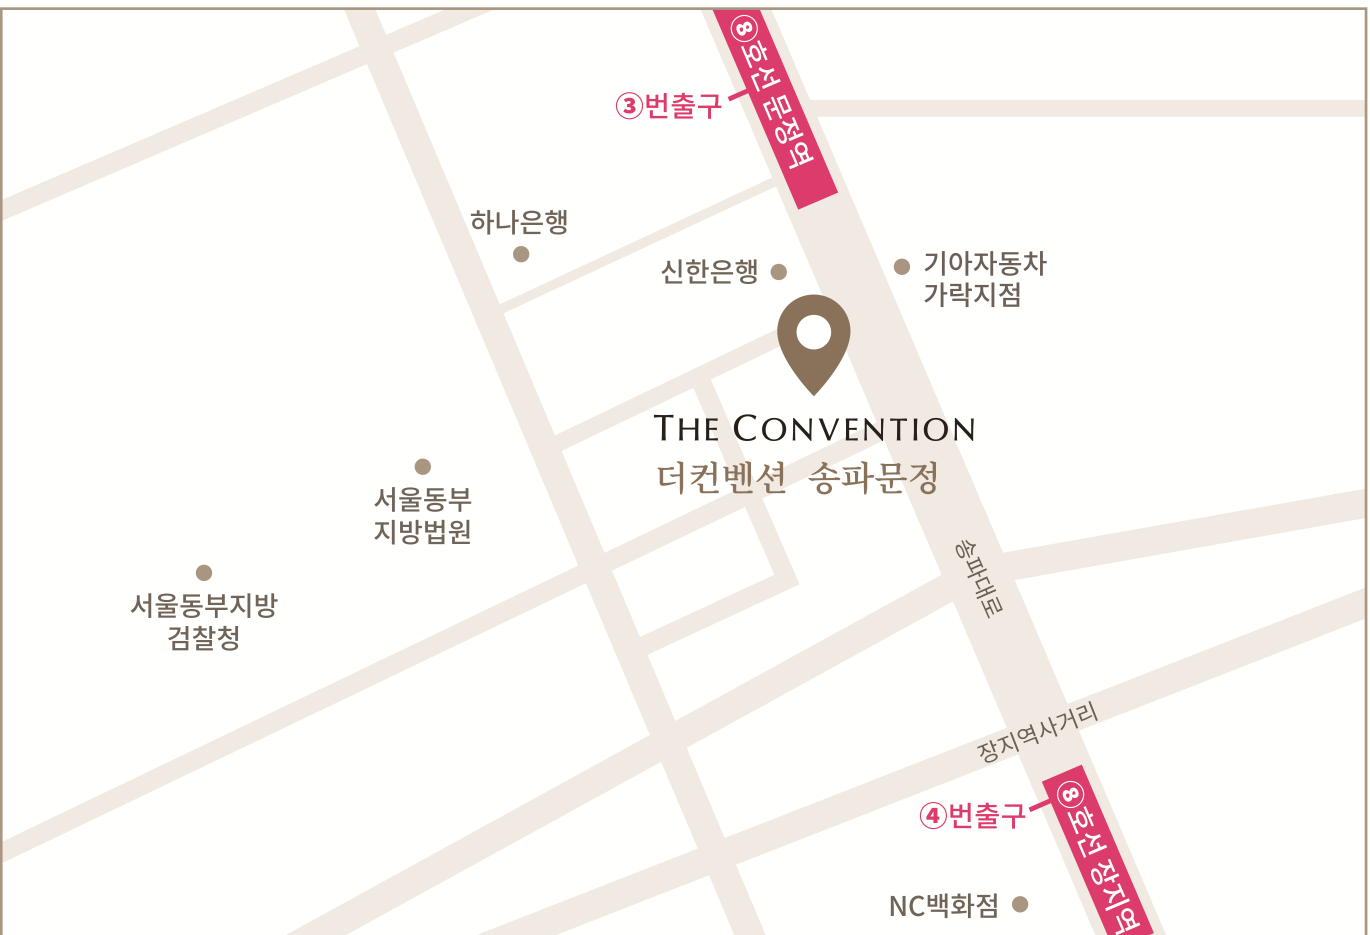
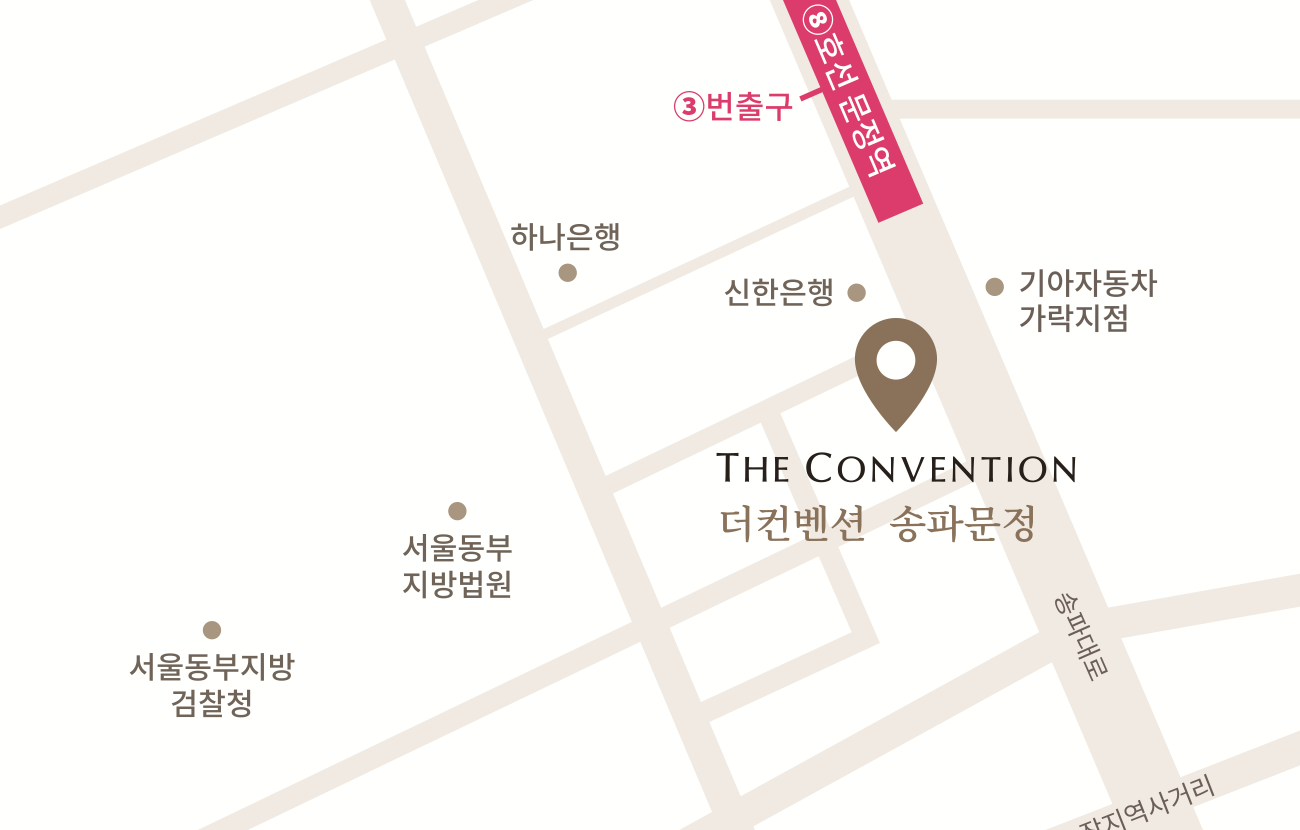
feat: 화이트 톤 리뉴얼, 약도 외곽선 완전 제거, 내비게이션 맞춤법 수정

Changed region(s): [[0.0, 0.0, 1.0, 1.0], [0.2769, 0.4819, 0.3385, 0.6024], [0.0923, 0.6024, 0.2154, 0.6928]]

diff --git a/src/components/Location.jsx b/src/components/Location.jsx
@@ -46,7 +46,7 @@ export function Location({ onCopied }) {
       <SectionTitle kicker="LOCATION" title="오시는 길" />
 
       {/* 공식 약도 이미지 (클릭 시 확대 모달) */}
-      <div className="relative overflow-hidden rounded-xl border border-cream-300 bg-white shadow-xs">
+      <div className="relative overflow-hidden rounded-xl border border-gray-100 bg-white shadow-xs">
         <button
           type="button"
           onClick={() => setIsMapModalOpen(true)}
@@ -60,7 +60,7 @@ export function Location({ onCopied }) {
             onContextMenu={(e) => e.preventDefault()}
             onDragStart={(e) => e.preventDefault()}
           />
-          <div className="flex items-center justify-center gap-1.5 border-t border-cream-200 bg-cream-50/80 py-2 text-center text-[11px] text-ink-muted">
+          <div className="flex items-center justify-center gap-1.5 border-t border-gray-100 bg-gray-50/90 py-2 text-center text-[11px] text-ink-muted">
             <svg
               className="h-3.5 w-3.5 fill-none stroke-current"
               viewBox="0 0 24 24"
@@ -110,8 +110,8 @@ export function Location({ onCopied }) {
         : null}
 
       {/* 안내 카드 */}
-      <div className="mt-5 rounded-xl border border-cream-300 bg-white/70 p-6 text-center shadow-xs backdrop-blur-xs">
-        <div className="mx-auto mb-3 flex h-10 w-10 items-center justify-center rounded-full bg-cream-200 text-rose-dark">
+      <div className="mt-5 rounded-xl border border-gray-100 bg-white p-6 text-center shadow-xs">
+        <div className="mx-auto mb-3 flex h-10 w-10 items-center justify-center rounded-full bg-gray-50 text-rose-dark">
           <svg
             className="h-5 w-5 fill-current"
             viewBox="0 0 24 24"
@@ -143,7 +143,7 @@ export function Location({ onCopied }) {
           <button
             type="button"
             onClick={copyAddress}
-            className="inline-flex items-center gap-1.5 rounded-full border border-cream-300 bg-cream-50 px-3.5 py-1 text-xs text-ink-muted transition hover:bg-cream-100 hover:text-ink"
+            className="inline-flex items-center gap-1.5 rounded-full border border-gray-200 bg-gray-50 px-3.5 py-1 text-xs text-ink-muted transition hover:bg-gray-100 hover:text-ink"
           >
             <svg
               className="h-3.5 w-3.5 fill-none stroke-current"
@@ -161,7 +161,7 @@ export function Location({ onCopied }) {
           {wedding.tel ? (
             <a
               href={`tel:${wedding.tel}`}
-              className="inline-flex items-center gap-1.5 rounded-full border border-cream-300 bg-cream-50 px-3.5 py-1 text-xs text-ink-muted transition hover:bg-cream-100 hover:text-ink"
+              className="inline-flex items-center gap-1.5 rounded-full border border-gray-200 bg-gray-50 px-3.5 py-1 text-xs text-ink-muted transition hover:bg-gray-100 hover:text-ink"
             >
               <svg
                 className="h-3.5 w-3.5 fill-current"
@@ -198,11 +198,11 @@ export function Location({ onCopied }) {
 
       {/* 대중교통 및 주차 상세 안내 */}
       {wedding.transport ? (
-        <div className="mt-8 space-y-4 rounded-xl border border-cream-200 bg-cream-50/80 p-5 text-left text-xs leading-relaxed text-ink-muted">
+        <div className="mt-8 space-y-4 rounded-xl border border-gray-100 bg-gray-50/70 p-5 text-left text-xs leading-relaxed text-ink-muted">
           {/* 지하철 */}
           {wedding.transport.subway ? (
             <div className="flex items-start gap-3">
-              <span className="shrink-0 rounded bg-cream-200 px-2 py-0.5 font-medium text-[11px] text-ink">
+              <span className="shrink-0 rounded bg-gray-200/80 px-2 py-0.5 font-medium text-[11px] text-ink">
                 지하철
               </span>
               <div className="text-ink-muted">{wedding.transport.subway}</div>
@@ -211,8 +211,8 @@ export function Location({ onCopied }) {
 
           {/* 버스 */}
           {wedding.transport.bus ? (
-            <div className="flex items-start gap-3 border-t border-cream-200/70 pt-3">
-              <span className="shrink-0 rounded bg-cream-200 px-2 py-0.5 font-medium text-[11px] text-ink">
+            <div className="flex items-start gap-3 border-t border-gray-200/60 pt-3">
+              <span className="shrink-0 rounded bg-gray-200/80 px-2 py-0.5 font-medium text-[11px] text-ink">
                 버스
               </span>
               <div className="space-y-1 text-[11.5px] text-ink-muted">
@@ -256,8 +256,8 @@ export function Location({ onCopied }) {
 
           {/* 자가용 및 주차 */}
           {wedding.transport.car || wedding.transport.parking ? (
-            <div className="flex items-start gap-3 border-t border-cream-200/70 pt-3">
-              <span className="shrink-0 rounded bg-cream-200 px-2 py-0.5 font-medium text-[11px] text-ink">
+            <div className="flex items-start gap-3 border-t border-gray-200/60 pt-3">
+              <span className="shrink-0 rounded bg-gray-200/80 px-2 py-0.5 font-medium text-[11px] text-ink">
                 자가용
               </span>
               <div className="space-y-1 text-ink-muted">

diff --git a/src/components/Account.jsx b/src/components/Account.jsx
@@ -26,7 +26,7 @@ function AccountRow({ account, onCopied }) {
   }
 
   return (
-    <div className="flex items-center justify-between gap-3 border-t border-cream-200 py-3 first:border-t-0">
+    <div className="flex items-center justify-between gap-3 border-t border-gray-100 py-3 first:border-t-0">
       <div>
         <p className="text-sm">
           {account.bank} {account.number}
@@ -36,7 +36,7 @@ function AccountRow({ account, onCopied }) {
       <button
         type="button"
         onClick={copy}
-        className="shrink-0 rounded-full border border-rose px-3 py-1 text-xs text-rose-dark"
+        className="shrink-0 rounded-full border border-gray-200 bg-gray-50 px-3 py-1 text-xs text-ink-muted transition hover:bg-gray-100"
       >
         복사
       </button>
@@ -48,7 +48,7 @@ function Accordion({ title, accounts, onCopied }) {
   const [open, setOpen] = useState(false)
 
   return (
-    <div className="overflow-hidden rounded-md border border-cream-300 bg-white/60">
+    <div className="overflow-hidden rounded-xl border border-gray-100 bg-white shadow-xs">
       <button
         type="button"
         className="flex w-full items-center justify-between px-4 py-3.5 text-sm"
@@ -59,7 +59,7 @@ function Accordion({ title, accounts, onCopied }) {
         <span className="text-ink-soft">{open ? '−' : '+'}</span>
       </button>
       {open ? (
-        <div className="px-4 pb-3">
+        <div className="border-t border-gray-100 bg-gray-50/50 px-4 pb-3">
           {accounts.map((account) => (
             <AccountRow
               key={`${account.bank}-${account.number}`}

diff --git a/src/components/Cover.jsx b/src/components/Cover.jsx
@@ -3,7 +3,7 @@ import { useCountdown } from '../hooks/useCountdown'
 
 function TimeBox({ value, label }) {
   return (
-    <div className="flex min-w-[58px] flex-col items-center rounded-lg bg-white/70 px-2 py-3 shadow-sm">
+    <div className="flex min-w-[58px] flex-col items-center rounded-lg border border-gray-100 bg-white/90 px-2 py-3 shadow-xs backdrop-blur-xs">
       <span className="font-serif text-2xl tabular-nums text-ink">
         {String(value).padStart(2, '0')}
       </span>
@@ -22,12 +22,12 @@ export function Cover() {
   return (
     <section className="relative flex min-h-[100svh] flex-col items-center justify-center px-6 py-16 text-center">
       <div
-        className="pointer-events-none absolute inset-0 bg-cover bg-center opacity-35"
+        className="pointer-events-none absolute inset-0 select-none bg-cover bg-center opacity-40"
         style={{
           backgroundImage: `url(${wedding.coverImage || '/photos/photo_10.jpg'})`,
         }}
       />
-      <div className="pointer-events-none absolute inset-0 bg-gradient-to-b from-cream-100/80 via-cream-100/60 to-cream-100" />
+      <div className="pointer-events-none absolute inset-0 bg-gradient-to-b from-white/70 via-white/50 to-white" />
 
       <div className="relative">
         <p className="mb-8 text-[11px] tracking-[0.4em] text-rose-dark">

diff --git a/tailwind.config.js b/tailwind.config.js
@@ -5,19 +5,19 @@ export default {
     extend: {
       colors: {
         cream: {
-          50: '#fdfbf7',
-          100: '#f7f1e8',
-          200: '#efe4d4',
-          300: '#e4d3bb',
+          50: '#ffffff',
+          100: '#ffffff',
+          200: '#f8f9fa',
+          300: '#e9ecef',
         },
         ink: {
-          DEFAULT: '#4a4036',
-          muted: '#7a6e63',
-          soft: '#9a8d82',
+          DEFAULT: '#222222',
+          muted: '#555555',
+          soft: '#888888',
         },
         rose: {
-          DEFAULT: '#c4a484',
-          dark: '#a68568',
+          DEFAULT: '#b49b82',
+          dark: '#8c735a',
         },
       },
       fontFamily: {

diff --git a/src/data/wedding.js b/src/data/wedding.js
@@ -22,7 +22,7 @@ export const wedding = {
       notice: '문정법조타운·건영아파트 정류소에서 하차 후 도보이동 (일반버스)',
       policy: '대중교통 정책에 따라 변동될 수 있습니다.',
     },
-    car: '네비게이션에 송파구 송파대로 155 검색',
+    car: '내비게이션에 송파구 송파대로 155 검색',
     parking: 'NH송파농협 신청사 지하 주차장 이용 (하객 2시간 무료)',
   },
   greeting: `서로 다른 길을 걷던 두 사람이

diff --git a/src/App.jsx b/src/App.jsx
@@ -13,7 +13,7 @@ function App() {
 
   return (
     <div className="min-h-svh bg-cream-200">
-      <main className="mx-auto min-h-svh max-w-md bg-cream-100 shadow-[0_0_40px_rgba(74,64,54,0.08)]">
+      <main className="mx-auto min-h-svh max-w-md bg-cream-100 shadow-[0_4px_30px_rgba(0,0,0,0.05)]">
         <Cover />
         <div className="mx-auto h-px w-12 bg-cream-300" />
         <Greeting />

diff --git a/src/index.css b/src/index.css
@@ -8,7 +8,7 @@
   }
 
   body {
-    @apply m-0 bg-cream-100 font-sans text-ink antialiased;
+    @apply m-0 bg-cream-200 font-sans text-ink antialiased;
   }
 
   #root {

diff --git a/BRAINSTORMING.md b/BRAINSTORMING.md
@@ -1,42 +1,28 @@
-# 사용자 피드백 반영 브레인스토밍 (BRAINSTORMING)
+# 화이트 톤 리뉴얼 및 피드백 브레인스토밍 (BRAINSTORMING)
 
-## 1. 피드백 4가지 분석 및 해결 방안
+## 1. 피드백 3가지 분석
 
-### ① 갤러리 사진 무단 저장 방지 (PC 우클릭 및 모바일 롱탭 방지)
-- **현상**: 스마트폰에서 사진을 길게 누르면 "이미지 저장 / 다운로드" 팝업이 뜨고, PC에서는 우클릭으로 이미지를 저장할 수 있음.
+### ① '네비게이션' ➔ '내비게이션' 표준어 수정
+- **현상**: `src/data/wedding.js`, `Location.jsx` 등에서 '네비게이션'으로 표기되어 있음.
+- **수정**: 국립국어원 표준 맞춤법 표기인 **'내비게이션'** 으로 일괄 변경.
+
+### ② 약도 이미지 외곽 검은 테두리 제거
+- **현상**: PDF에서 추출한 약도 사각형의 검은 외곽 테두리 선(1~2px)이 모바일 카드 안에서 그대로 보여 답답한 느낌을 줌.
 - **해결 방안**:
-  1. CSS:
-     - `-webkit-touch-callout: none;` (iOS Safari 길게 누르기 메뉴 완전 차단)
-     - `user-select: none; -webkit-user-select: none;` (텍스트/이미지 선택 방지)
-     - `pointer-events: none;` (이미지 자체에 직접 터치 이벤트가 닿지 않도록 하고 상위 클릭 버튼만 동작하게 처리)
-  2. JavaScript 이벤트:
-     - `onContextMenu={(e) => e.preventDefault()}` (마우스 우클릭 및 롱탭 컨텍스트 메뉴 무력화)
-     - `onDragStart={(e) => e.preventDefault()}` (이미지 드래그 앤 드롭 방지)
-  3. 적용 범위: 갤러리 썸네일 그리드, 확대 모달, 메인 커버 등 모든 사진.
+  - 원본 고해상도 이미지에서 사각 테두리 선 안쪽(상하좌우 각 12px씩 inset)으로 정밀 크롭.
+  - 검은 테두리가 완전히 사라지고 순수 지도 그래픽만 화이트 배경 위에 자연스럽게 얹히도록 처리.
 
-### ② 방명록 섹션 제거 및 DB 제거 확인
-- **질문**: "방명록 없애줘 (이거 없으면 DB 없어도 되는 거지?)"
-- **답변**: **네, 완전히 맞습니다!**
-  - 방명록이 빠지면 청첩장은 100% 정적 사이트(Static HTML/JS/CSS)가 됩니다.
-  - 외부 Supabase DB 의존성이 완전히 사라져 DB 연결 실패, 트래픽 한도, 데이터 유실, 비밀번호 노출 등의 걱정이 **0%**가 되며, Vercel CDN에서 전 세계 초고속으로 안정 작동합니다.
-- **조치**: `App.jsx`에서 `<Guestbook />` 제거 및 구분선 정리.
-
-### ③ 공식 청첩장 약도 PDF 반영
-- **입력 파일**: `/Users/bottlewook/Downloads/더컨벤션_송파_청첩장_약도.pdf`
-- **반영 내용**:
-  1. **약도 이미지**:
-     - 더컨벤션 공식 약도 그래픽(문정역 3번 출구 도보 동선, 신한/하나은행, 기아자동차, 서울동부지방법원/검찰청, 장지역 4번 출구, NC백화점)을 고해상도로 추출하여 감성적인 둥근 카드 형태로 배치.
-     - 클릭 시 확대해서 선명하게 볼 수 있는 기능 추가.
-  2. **교통편 상세 업데이트 (`src/data/wedding.js`)**:
-     - **지하철**: 8호선 문정역 3번 출구 도보 5분
-     - **버스**:
-       - 일반버스: `30, 31, 100, 331`
-       - 간선버스: `302, 303, 320, 333, 350, 360, 343, 345, 422, N13, N37`
-       - 지선버스: `3322, 3420`
-       - 직행버스: `1009, 1112, 1117, 1650, 500-1, 500-1A, 3302, 4305, G2100, G6009`
-       - 하차 안내: 문정법조타운·건영아파트 정류소에서 하차 후 도보 이동
-     - **자가용**: 네비게이션에 "송파구 송파대로 155" 검색
-     - **예식장 연락처**: 02-6418-5000 (전화 연결 기능)
-
-### ④ 티맵 버튼 삭제
-- **조치**: 길찾기 버튼 영역에서 [티맵]을 삭제하고, **[네이버지도]** 와 **[카카오맵]** 2개 버튼으로 시원하게 2열 그리드로 정렬.
+### ③ 전체 톤을 '좀 더 화이트 톤'으로 리뉴얼 (White Wedding Theme)
+- **현상**: 현재 테마가 웜 크림/베이지 톤(`bg-cream-200`, `bg-cream-100`, `#f7f1e8`, 브라운 잉크 `#4a4036`)으로 되어 있어 약간 노란빛/갈색빛이 도는 상태.
+- **해결 방안 (맑고 화사한 화이트 톤으로 개편)**:
+  1. **배경색 개편**:
+     - 바깥 배경(body/wrapper): 밝고 깨끗한 오프화이트 (`#f8fafc` 또는 `#f9fafb`)
+     - 메인 모바일 캔버스: 순백의 **퓨어 화이트 (`#ffffff`)**
+     - 섹션 구분선: 칙칙하지 않은 미세한 소프트 라인 (`#f1f5f9` or `#e2e8f0`)
+     - 안내 박스/카드: 화이트 배경에 은은한 림 보더(`border-slate-100`)와 부드러운 그림자
+  2. **텍스트 컬러 개편**:
+     - 브라운톤 `#4a4036` ➔ 세련되고 가독성 높은 모던 차콜 블랙 (`#1e293b` / `#334155`)
+     - 서브 텍스트: 차분한 쿨그레이 (`#64748b` / `#94a3b8`)
+  3. **메인 커버 (`Cover.jsx`)**:
+     - 배경 그라디언트를 노란빛 크림 오버레이에서 **맑은 화이트 오버레이 (`from-white/80 via-white/60 to-white`)** 로 변경하여, 신랑/신부님의 사진이 훨씬 화사하고 눈부시게 드러나도록 연출.
+     - D-Day 카운트다운 박스도 깔끔한 퓨어 화이트 카드 + 미세 그림자로 정돈.

diff --git a/IMPLEMENTATION_PLAN.md b/IMPLEMENTATION_PLAN.md
@@ -1,47 +1,40 @@
-# 피드백 반영 구현 계획서 (IMPLEMENTATION_PLAN)
+# 화이트 톤 리뉴얼 및 피드백 구현 계획서 (IMPLEMENTATION_PLAN)
 
 ## 1. 구현 목표
-사용자 피드백 4가지를 빠짐없이 반영하여, 사진 복사 방지 적용, 방명록 제거(DB 무의존 정적 사이트화), 공식 PDF 약도 및 대중교통 정보 100% 일치 반영, 티맵 삭제(네이버/카카오 2버튼 체제)를 완성하고 Vercel에 즉시 배포합니다.
+사용자의 요청에 따라 '네비게이션' 표기를 '내비게이션'으로 수정하고, 약도 외곽의 검은 테두리를 정밀 제거하며, 청첩장 전체 톤앤매너를 기존의 노란빛 크림색에서 화사하고 세련된 퓨어 화이트 톤(Pure White & Modern Charcoal)으로 전면 리뉴얼하여 배포합니다.
 
 ---
 
 ## 2. 세부 구현 단계
 
-### Step 1. 사진 우클릭 & 모바일 롱탭 저장 방지
-1. `src/index.css` 전역 스타일 추가:
-   - `img { -webkit-touch-callout: none; -webkit-user-select: none; user-select: none; }`
-2. `src/components/Gallery.jsx`:
-   - 썸네일 이미지 및 전체 화면 모달 이미지에 `onContextMenu={(e) => e.preventDefault()}` 및 `onDragStart={(e) => e.preventDefault()}` 추가.
-   - 모바일에서 꾹 눌렀을 때 이미지 저장 메뉴가 뜨지 않도록 처리.
+### Step 1. 텍스트 오타 수정
+- `src/data/wedding.js`: `네비게이션` ➔ `내비게이션에 송파구 송파대로 155 검색` 수정.
+- `src/components/Location.jsx`: 자가용 안내 항목 내 표기 일치 확인.
+
+### Step 2. 약도 이미지 검은 테두리 제거 (Inset 크롭)
+- 원본 이미지에서 테두리 안쪽으로 약 12~14px씩 상하좌우를 크롭하여 검은 선을 완전히 제거.
+- `public/photos/official_map.png` 교체.
+- 모바일 카드 안에서 경계선 없이 하얀 도화지 위에 자연스럽게 지도가 펼쳐지도록 스타일링.
+
+### Step 3. 전체 컬러 팔레트 화이트 톤 리뉴얼
+1. `tailwind.config.js` 및 `src/index.css`:
+   - `cream` 컬러를 밝고 깨끗한 화이트/오프화이트 스펙트럼(`50: #ffffff`, `100: #fafbfc`, `200: #f1f5f9`, `300: #e2e8f0`)으로 리셋하거나 소프트 화이트 계열로 매핑.
+   - `ink` 텍스트 컬러를 브라운 계열(`4a4036`)에서 세련된 모던 차콜 블랙(`DEFAULT: #1e293b`, `muted: #64748b`, `soft: #94a3b8`)으로 변경.
+2. `src/App.jsx`:
+   - 전체 바탕: `bg-[#f4f6f8]` (화사한 오프화이트)
+   - 모바일 청첩장 본체: `bg-white shadow-[0_4px_30px_rgba(0,0,0,0.05)]`
+   - 구분선: 은은한 소프트 그레이 (`bg-gray-200`)
 3. `src/components/Cover.jsx`:
-   - 커버 배경 이미지 컨테이너에도 방어 속성 확인.
+   - 배경 오버레이를 `from-white/70 via-white/50 to-white`로 변경하여 맑고 환한 첫인상 부여.
+   - D-Day 카운트다운 타임박스를 퓨어 화이트 + 소프트 보더로 구성.
+4. `src/components/Location.jsx` & `src/components/Account.jsx`:
+   - 카드 배경: `bg-slate-50/70 border-slate-100` 등 화사하고 깔끔한 화이트 카드 톤으로 통일.
 
-### Step 2. 방명록 섹션 제거 (DB 의존성 제거)
-1. `src/App.jsx`:
-   - `<Guestbook />` 컴포넌트 호출 및 구분선 제거.
-   - `import { Guestbook } from './components/Guestbook'` 제거.
-2. (DB 관련 환경 변수 불필요, 순수 정적 사이트로 전환 완료)
-
-### Step 3. 공식 PDF 약도 및 상세 대중교통 정보 반영
-1. PDF(`/Users/bottlewook/Downloads/더컨벤션_송파_청첩장_약도.pdf`)에서 고해상도 공식 약도 이미지 추출 -> `public/photos/official_map.png` 저장.
-2. `src/data/wedding.js` 교통 정보 갱신:
-   - 지하철: `8호선 문정역 3번 출구 도보 5분`
-   - 버스: 일반/간선/지선/직행 버스 상세 노선 번호 및 하차 정류소(`문정법조타운·건영아파트`) 완벽 기재
-   - 자가용: `네비게이션에 송파구 송파대로 155 검색`
-   - 예식장 전화번호: `02-6418-5000`
-3. `src/components/Location.jsx`:
-   - 공식 약도 이미지를 세련된 라운드 카드로 렌더링 (클릭 시 확대 모달 기능 지원).
-   - 기존의 커스텀 약도 대신 예식장 공식 약도 그래픽과 상세 버스/지하철/자가용 안내 배치.
-
-### Step 4. 티맵 버튼 삭제 및 길찾기 2열 재정렬
-1. `Location.jsx`에서 티맵 버튼 제거.
-2. `[네이버지도]`와 `[카카오맵]`을 `grid grid-cols-2 gap-3`으로 넓고 시원하게 재배치.
-
-### Step 5. 빌드, 린트 및 GitHub 배포
-1. `npm run build` 및 `npm run lint` 검증.
-2. Git 커밋 및 `main` 브랜치 푸시 -> Vercel 자동 재배포.
+### Step 4. 빌드, 린트 및 배포
+- `npm run build` 및 `npm run lint` 통과 확인.
+- Git 커밋 및 `main` 브랜치 푸시 ➔ Vercel 자동 배포.
 
 ---
 
 ## 3. 사용자 확인 (User Confirmation)
-- 위 4가지 피드백 구현 계획에 대해 확인을 구합니다.
+- 위 3가지 피드백(내비게이션 수정, 약도 검은선 제거, 화사한 화이트 톤 리뉴얼) 계획에 대해 확인을 구합니다.
